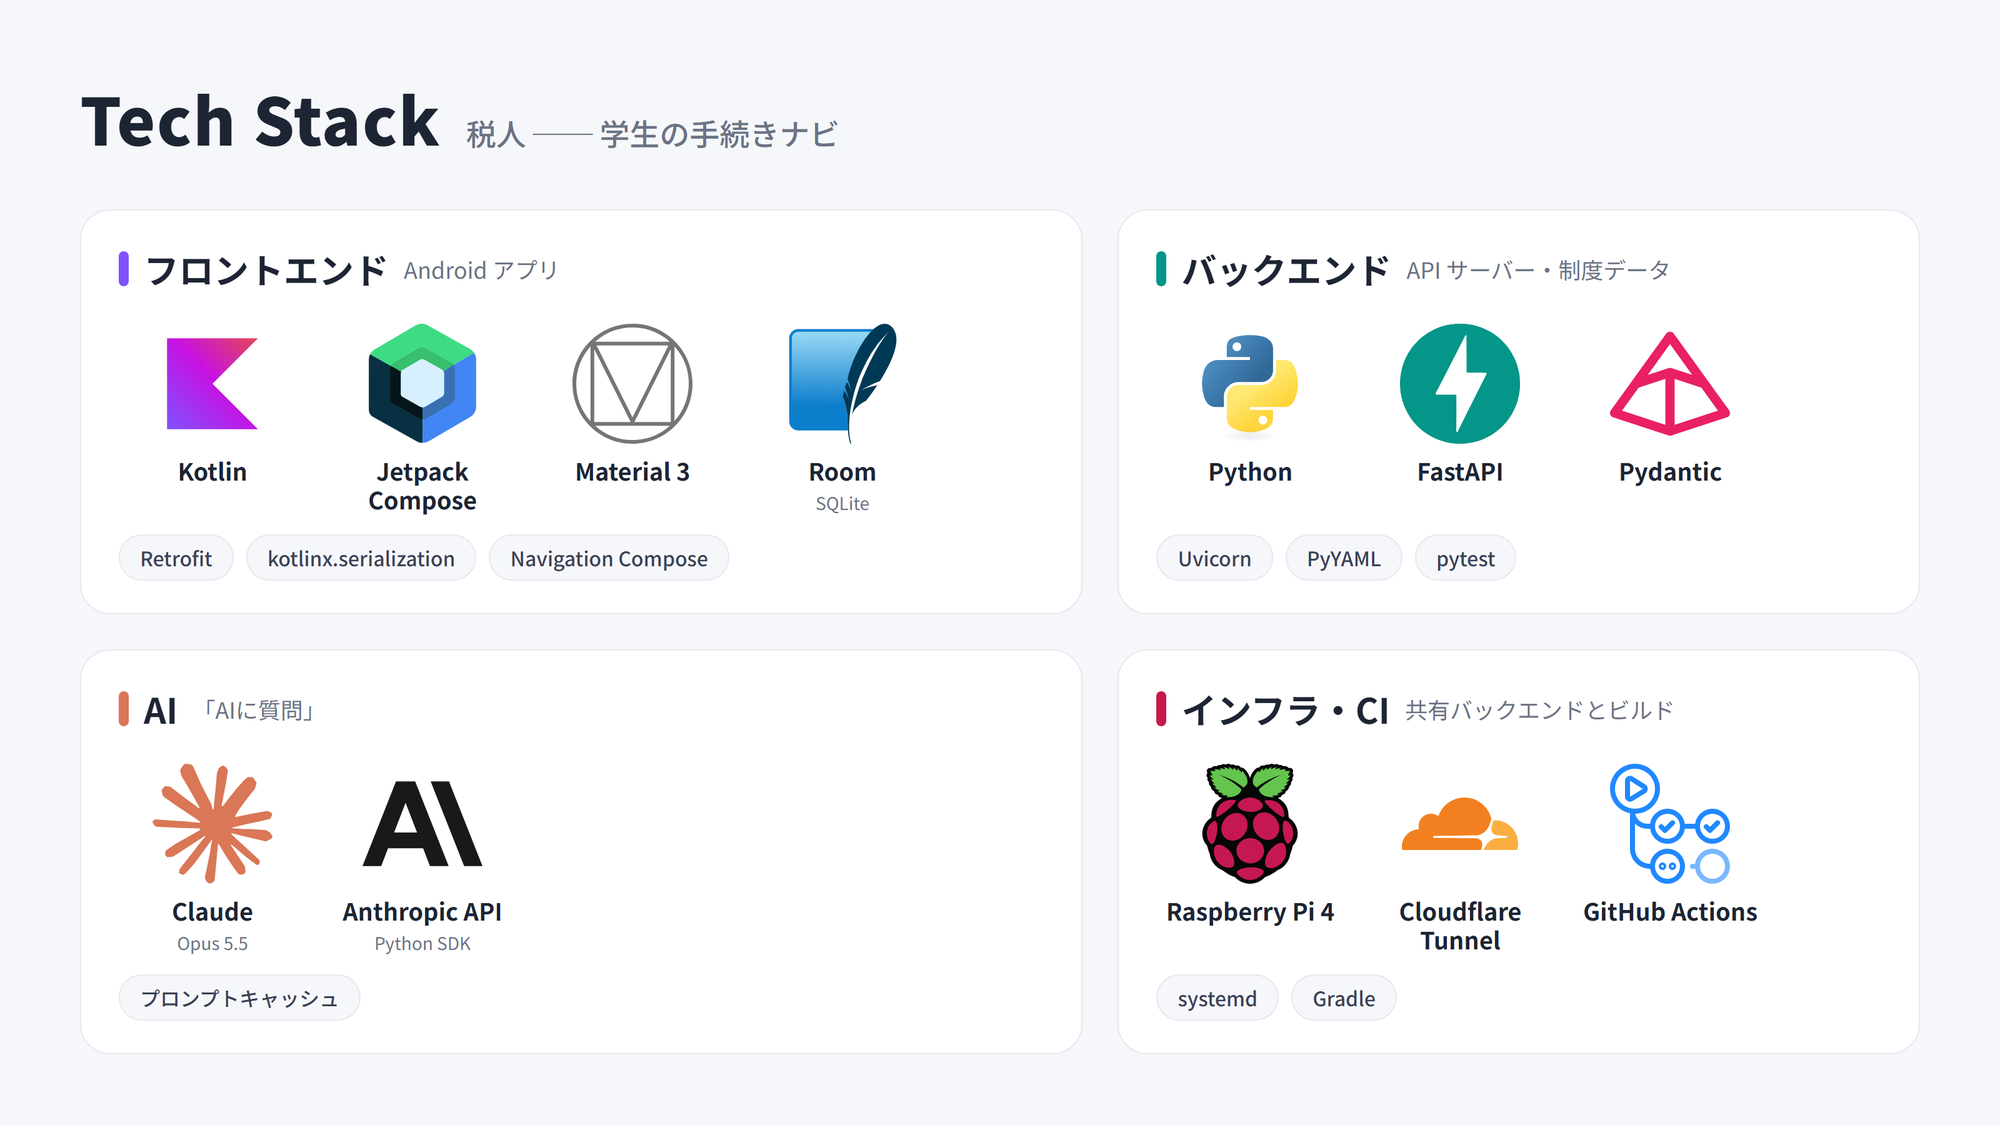
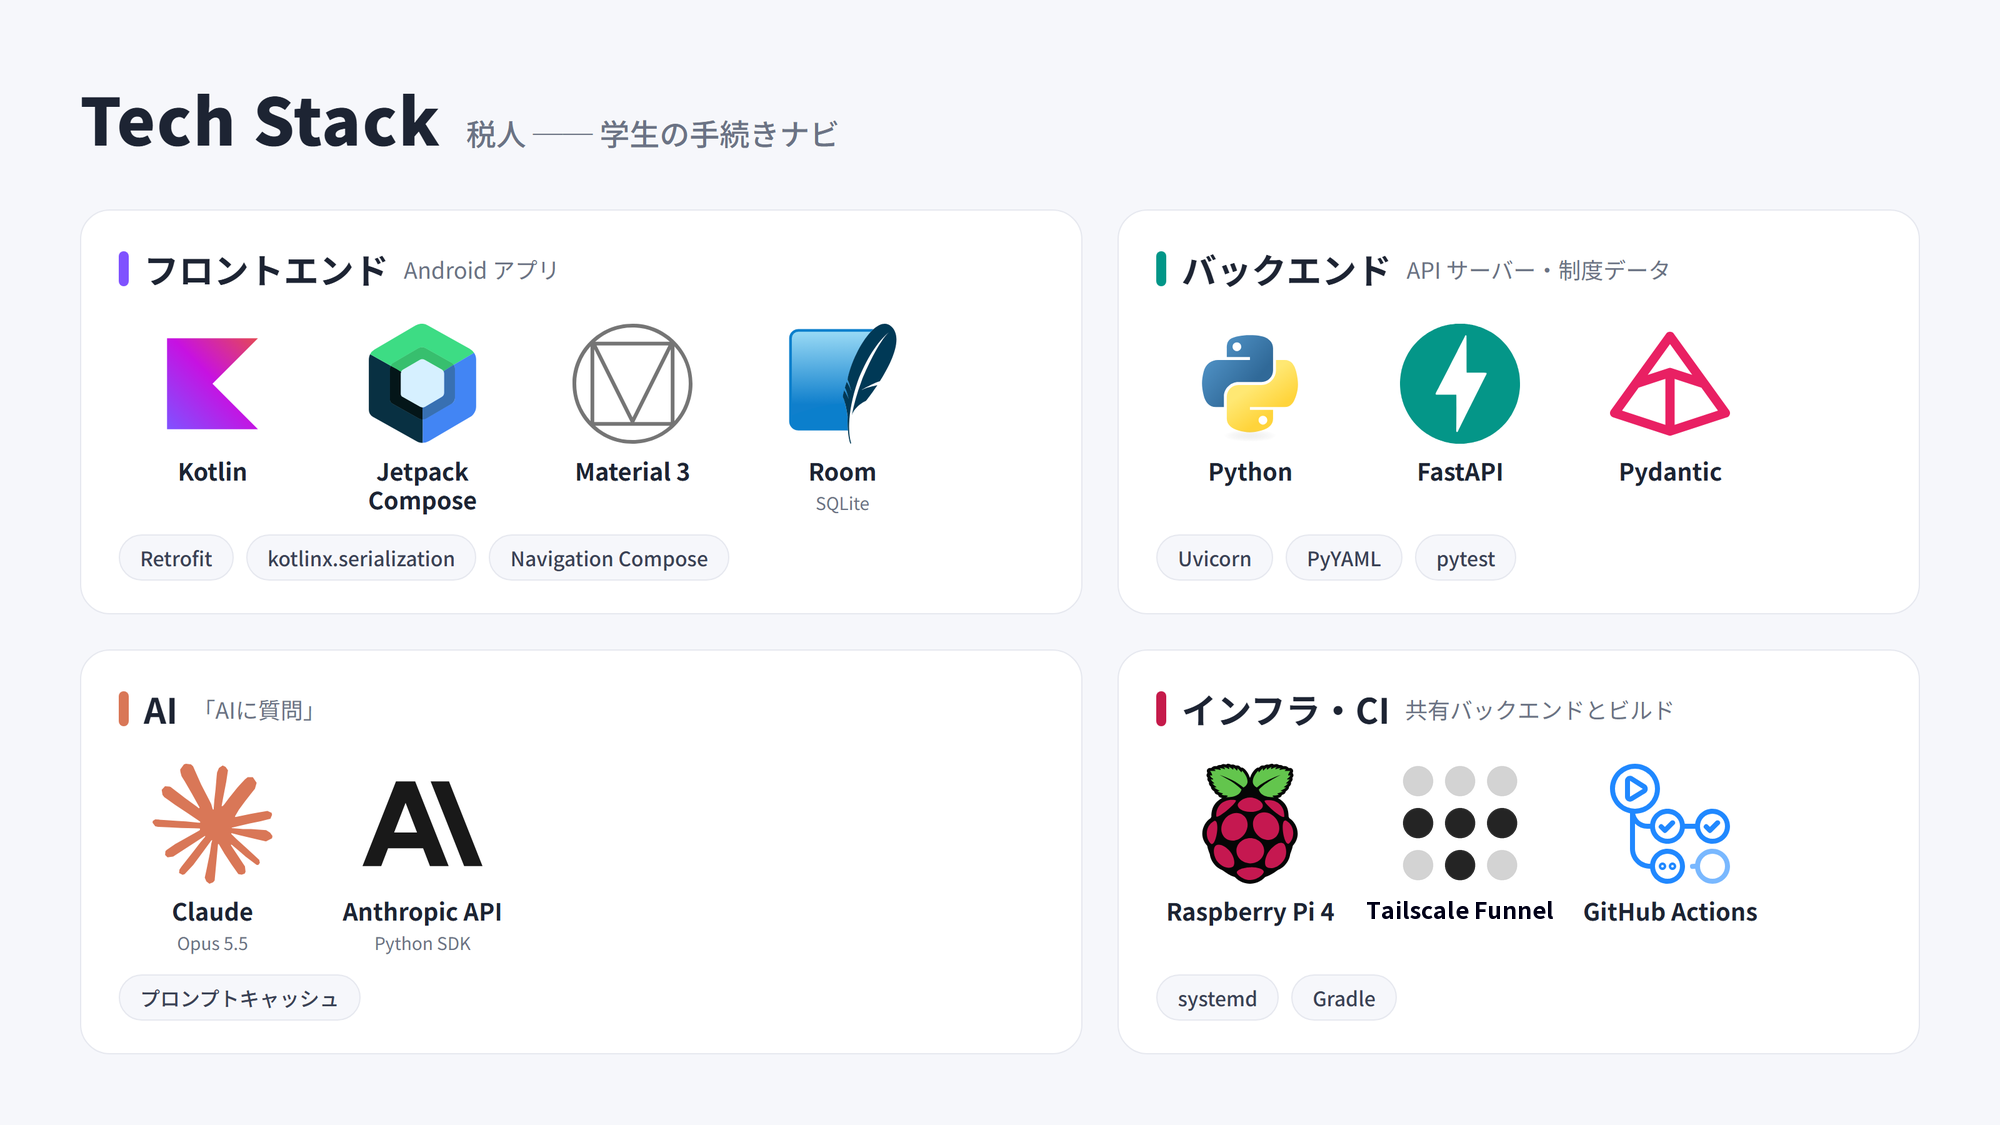
READMEとdocsを実装に合わせる（公開経路をTailscale Funnelに、出典・理由の例・掛け持ちの例）
- 技術スタックの図・README・docs の Cloudflare Tunnel を Tailscale Funnel に（Cloudflare は 2026-10-17 に停止）
- 制度データの出典からこども家庭庁を外す（いまの制度データには無い）
- 「なぜ必要か」の例を、必要な手続きの実際の理由に替える
- 掛け持ちの例を、実際に聞く順番に合わせる

Changed region(s): [[0.682, 0.6844, 0.775, 0.84]]

diff --git a/docs/development.md b/docs/development.md
@@ -46,8 +46,8 @@ cp .env.example .env                                   # Claude を使うなら 
 ### アクセス方法
 
 - **URL はチームのチャットで共有している**。リポジトリが public なので、ここには書かない
-  - 現在は臨時で Cloudflare Quick Tunnel（`https://<ランダム>.trycloudflare.com/` の形）を使っている。**サーバーの再起動などで URL が変わる**ことがあるので、繋がらなくなったらチャットで最新の URL を確認する
-  - 本来の公開経路（Tailscale Funnel、`https://<ホスト名>:8443/` の形）は準備中
+  - 公開経路は Tailscale Funnel（`https://<ホスト名>:8443/` の形）。URL は固定で、サーバーを再起動しても変わらない
+  - 2026-10-17 16:05 までは臨時で Cloudflare Quick Tunnel（`https://<ランダム>.trycloudflare.com/` の形）を使っていた。その URL を設定したままなら、チャットで共有している Funnel の URL に切り替える
 - 動作確認: ブラウザで `<URL>/health` を開いて `{"status":"ok", ...}` が出れば動いている
 - API の試し打ち: `<URL>/docs`（Swagger UI）
 - アプリから使う: `android/local.properties` に `api.baseUrl=<共有された URL>` と書き（末尾の `/` を忘れない）、Sync してからビルドし直す（URL はビルド時に埋め込まれる）
@@ -79,7 +79,7 @@ cp .env.example .env                                   # Claude を使うなら 
 | --- | --- |
 | アプリで「通信に失敗しました」 | ブラウザで `<URL>/health` が開けるか。開けなければサーバー側の問題なので管理者に連絡 |
 | ブラウザでは開けるがアプリでは失敗 | `local.properties` の URL（`https://`・末尾の `/`）。変更後に Sync とビルドをし直したか |
-| 以前は使えた URL が開けない | Quick Tunnel の URL が変わった可能性。チャットで最新の URL を確認する |
+| 以前は使えた URL が開けない | 停止した Cloudflare Quick Tunnel（`trycloudflare.com`）の URL のままになっていないか。チャットで最新の URL を確認する |
 | 追加した質問が出てこない | `GET /api/catalog` の `questions` に出ているか。サーバーの再起動か反映が要る（YAML は起動時に読み込む） |
 | 追加した手続き・項目が出てこない | その変更が main にマージされ、サーバーに反映済みか |
 
@@ -88,7 +88,7 @@ cp .env.example .env                                   # Claude を使うなら 
 サーバーの構成・設定・構築手順・運用コマンドは [architecture.md のサーバー構成](architecture.md#サーバー構成共有バックエンド) にまとめてある。よく使うもの:
 
 - main を反映: Pi 上で `bash ~/sd_2606/backend/deploy/pi/deploy.sh`
-- 公開 URL の確認（変わったらチャットで共有し直す）: `bash ~/sd_2606/backend/deploy/pi/tunnel-url.sh`
+- 公開の状態の確認: `tailscale funnel status`
 - ログ: `journalctl -u sd2606-api -f`
 
 ## ブランチと PR
